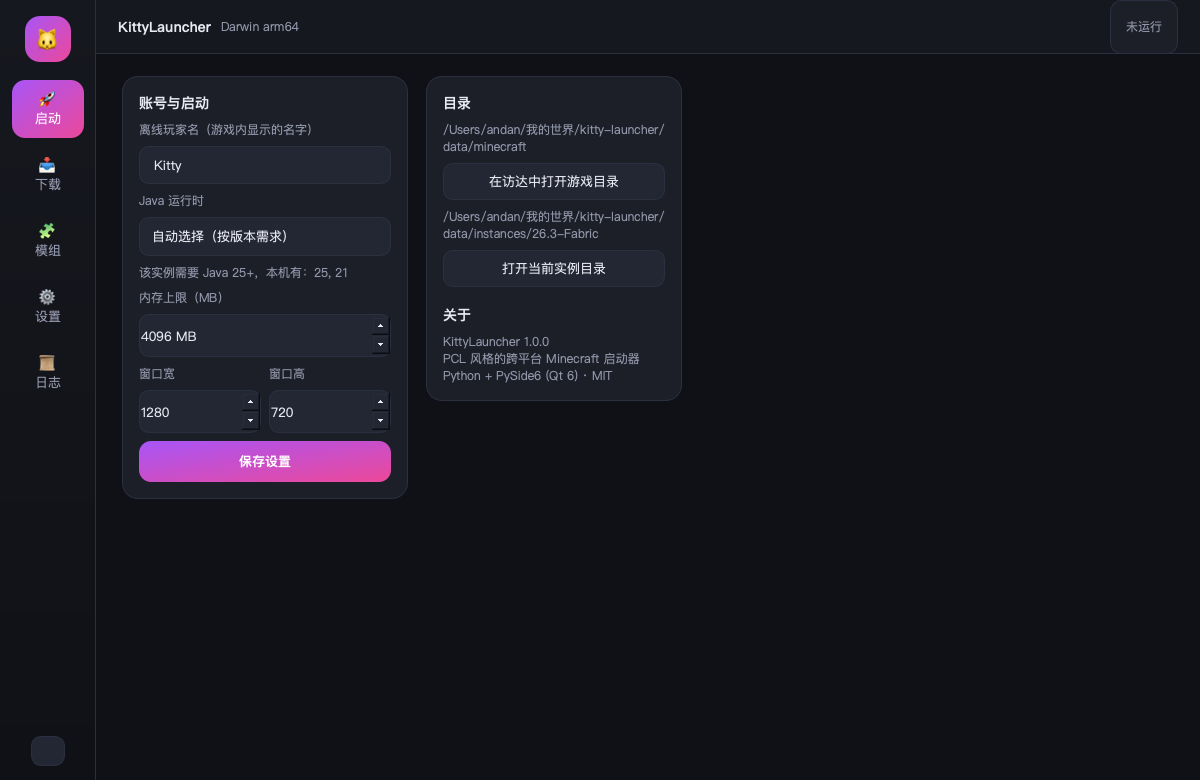
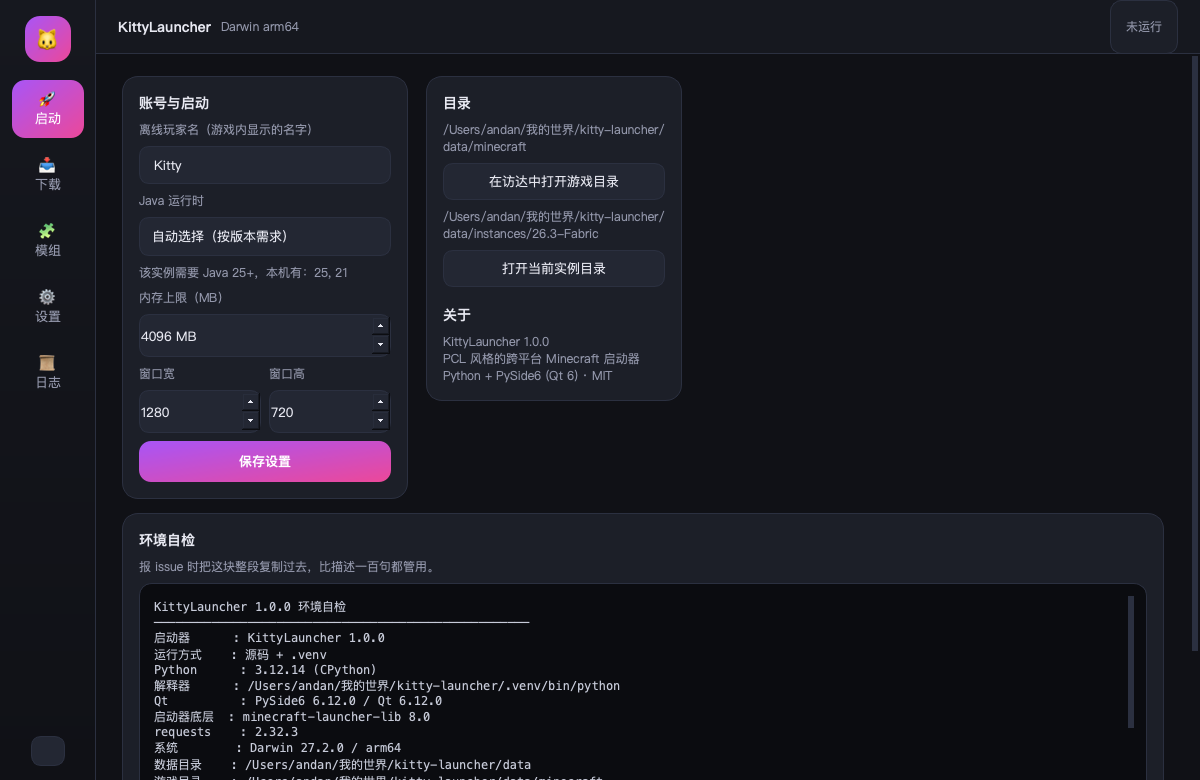
feat: 启动环境自检（--env / 设置页卡片 / 启动摘要）+ issue 模板

diff --git a/kitty/env_report.py b/kitty/env_report.py
@@ -1,0 +1,185 @@
+"""环境自检：一行看全 Python / Qt / Java / 目录 / 权限。
+
+三种用法：
+    python -m kitty.env_report          # 终端打印
+    ./run.sh --env                      # 同上（run.sh 会挑对解释器）
+    设置页「环境自检」卡片 → 复制     # 贴 issue 用
+
+这个模块刻意不 import PySide6，这样即使 Qt 装坏了也能跑出报告。
+"""
+from __future__ import annotations
+
+import os
+import platform
+import shutil
+import sys
+from pathlib import Path
+
+ROOT = Path(__file__).resolve().parent.parent
+VERSION = "1.0.0"
+MIN_PY = (3, 10)
+
+
+def _visual_len(text: str) -> int:
+    """中文按 2 个字符宽算，让终端里对齐得好看点。"""
+    return sum(2 if ord(ch) > 0x2E80 else 1 for ch in text)
+
+
+def _pad(text: str, width: int) -> str:
+    return text + " " * max(0, width - _visual_len(text))
+
+
+def _module_version(mod_name: str, attr: str = "__version__") -> str:
+    try:
+        import importlib.metadata as meta
+
+        return meta.version(mod_name)
+    except Exception:
+        pass
+    try:
+        mod = __import__(mod_name.replace("-", "_"))
+        return str(getattr(mod, attr, "?"))
+    except Exception:
+        return "未安装"
+
+
+def collect() -> dict:
+    info: dict = {
+        "launcher": VERSION,
+        "python": platform.python_version(),
+        "python_impl": platform.python_implementation(),
+        "python_path": sys.executable,
+        "frozen": bool(getattr(sys, "frozen", False)),
+        "venv": sys.prefix != sys.base_prefix,
+        "os": f"{platform.system()} {platform.release()}",
+        "arch": platform.machine(),
+        "qt": "未安装",
+        "mll": _module_version("minecraft-launcher-lib"),
+        "requests": _module_version("requests"),
+        "java": [],
+        "data_dir": "",
+        "game_dir": "",
+        "instances": [],
+        "disk_free_gb": 0.0,
+        "core_ok": False,
+    }
+
+    try:
+        from PySide6 import __version__ as pyside_ver
+        from PySide6.QtCore import qVersion
+
+        info["qt"] = f"PySide6 {pyside_ver} / Qt {qVersion()}"
+    except Exception as exc:  # noqa: BLE001
+        info["qt"] = f"未安装（{type(exc).__name__}）"
+
+    try:
+        from kitty import core
+
+        info["core_ok"] = True
+        info["data_dir"] = str(core.DATA)
+        info["game_dir"] = str(core.MC_DIR)
+        info["java"] = [
+            {"path": j["path"], "label": f"Java {j['major']} · {j['vendor']} · {j['version']}"}
+            for j in core.list_java()
+        ]
+        info["instances"] = [i["name"] for i in core.load_instances()]
+        try:
+            info["disk_free_gb"] = round(shutil.disk_usage(core.DATA).free / 1024 ** 3, 1)
+            info["data_writable"] = os.access(core.DATA, os.W_OK)
+        except Exception:
+            info["data_writable"] = False
+    except Exception as exc:  # noqa: BLE001
+        info["core_error"] = f"{type(exc).__name__}: {exc}"
+        info["data_writable"] = False
+
+    return info
+
+
+def checks(info: dict) -> list[tuple[str, str, str]]:
+    """返回 [(等级, 项目, 说明)]，等级 ✅ / ⚠ / ❌。"""
+    out: list[tuple[str, str, str]] = []
+
+    py = tuple(int(x) for x in info["python"].split(".")[:2])
+    if py >= MIN_PY:
+        out.append(("✅", "Python", f"{info['python']} ≥ 3.10"))
+    else:
+        out.append(("❌", "Python", f"{info['python']} 太老，需要 3.10+（跑 ./scripts/setup.sh）"))
+
+    if info["qt"].startswith("PySide6"):
+        out.append(("✅", "Qt", info["qt"]))
+    else:
+        out.append(("❌", "Qt", "PySide6 未装好，界面起不来"))
+
+    if info["mll"] == "未安装":
+        out.append(("❌", "启动器底层", "minecraft-launcher-lib 缺失"))
+    else:
+        out.append(("✅", "启动器底层", f"minecraft-launcher-lib {info['mll']}"))
+
+    # Java：只要有一个 >= 8 就能启动老版本，>= 21 才吃得下现代版本
+    majors = []
+    for j in info["java"]:
+        try:
+            majors.append(int(j["label"].split()[1]))
+        except Exception:
+            pass
+    if not majors:
+        out.append(("❌", "Java", "没找到任何 java，游戏起不来（去设置页手动指路径）"))
+    elif max(majors) >= 21:
+        out.append(("✅", "Java", f"找到 {len(majors)} 个，最高 {max(majors)}"))
+    else:
+        out.append(("⚠", "Java", f"找到 {len(majors)} 个，但最高只有 {max(majors)}，现代版本需要 21+"))
+
+    if info.get("core_ok"):
+        if info.get("data_writable"):
+            out.append(("✅", "数据目录", f"{info['data_dir']}（可写，剩余 {info['disk_free_gb']} GB）"))
+        else:
+            out.append(("❌", "数据目录", f"{info['data_dir']} 不可写，换个位置（KITTY_DATA）"))
+    else:
+        out.append(("❌", "启动器内核", info.get("core_error", "导入失败")))
+
+    return out
+
+
+def render(info: dict | None = None, color: bool = False) -> str:
+    info = info or collect()
+    rows = [
+        ("启动器", f"KittyLauncher {info['launcher']}"),
+        ("运行方式", "打包 app" if info["frozen"] else ("源码 + .venv" if info["venv"] else "源码")),
+        ("Python", f"{info['python']} ({info['python_impl']})"),
+        ("解释器", info["python_path"]),
+        ("Qt", info["qt"]),
+        ("启动器底层", f"minecraft-launcher-lib {info['mll']}"),
+        ("requests", info["requests"]),
+        ("系统", f"{info['os']} / {info['arch']}"),
+        ("数据目录", info["data_dir"] or "（未初始化）"),
+        ("游戏目录", info["game_dir"] or "（未初始化）"),
+        ("Java", "；".join(j["label"] for j in info["java"]) or "未找到"),
+        ("实例", f"{len(info['instances'])} 个" + (f"：{', '.join(info['instances'])}" if info["instances"] else "")),
+    ]
+    width = max(_visual_len(k) for k, _ in rows) + 2
+    lines = [f"KittyLauncher {info['launcher']} 环境自检", "─" * 52]
+    for k, v in rows:
+        lines.append(f"{_pad(k, width)}: {v}")
+    lines.append("─" * 52)
+    for level, item, note in checks(info):
+        lines.append(f"{level} {_pad(item, width)}: {note}")
+
+    bad = [c for c in checks(info) if c[0] == "❌"]
+    lines.append("─" * 52)
+    lines.append("结论: " + ("一切正常，可以开玩喵～" if not bad else f"有 {len(bad)} 项不满足，看上面 ❌"))
+    return "\n".join(lines)
+
+
+def summary_line(info: dict | None = None) -> str:
+    """给日志页用的一行摘要。"""
+    info = info or collect()
+    bad = [c for c in checks(info) if c[0] == "❌"]
+    java = max((int(j["label"].split()[1]) for j in info["java"]), default=0)
+    return (
+        f"[环境] Python {info['python']} · {info['qt']} · Java≤{java} · "
+        f"实例 {len(info['instances'])} · " + ("✅ 正常" if not bad else f"❌ {len(bad)} 项异常")
+    )
+
+
+if __name__ == "__main__":
+    print(render())

diff --git a/kitty/pages.py b/kitty/pages.py
@@ -12,7 +12,7 @@ from PySide6.QtWidgets import (
     QSizePolicy, QSpinBox, QStackedWidget, QVBoxLayout, QWidget, QButtonGroup,
 )
 
-from . import core
+from . import core, env_report
 from .widgets import Card, InstanceCard, StatCard, Tag, elide, loader_cn
 
 
@@ -466,9 +466,16 @@ class SettingsPage(QWidget):
     def __init__(self, host):
         super().__init__()
         self.host = host
-        lay = QHBoxLayout(self)
-        lay.setContentsMargins(26, 22, 26, 22)
+        inner = QWidget()
+        outer = QVBoxLayout(inner)
+        outer.setContentsMargins(26, 22, 26, 22)
+        outer.setSpacing(14)
+        root = QVBoxLayout(self)
+        root.setContentsMargins(0, 0, 0, 0)
+        root.addWidget(_scroll(inner))
+        lay = QHBoxLayout()
         lay.setSpacing(18)
+        outer.addLayout(lay)
 
         card = Card()
         card.setMaximumWidth(520)
@@ -551,9 +558,43 @@ class SettingsPage(QWidget):
         right.body.addWidget(about)
         right.body.addStretch(1)
 
+        env = Card()
+        t3 = QLabel("环境自检")
+        t3.setObjectName("Section")
+        env.body.addWidget(t3)
+        tip = QLabel("报 issue 时把这块整段复制过去，比描述一百句都管用。")
+        tip.setObjectName("Hint")
+        tip.setWordWrap(True)
+        env.body.addWidget(tip)
+
+        self.env_view = QPlainTextEdit()
+        self.env_view.setObjectName("Log")
+        self.env_view.setReadOnly(True)
+        self.env_view.setFixedHeight(250)
+        small = QFont("Menlo")
+        small.setPointSize(9)
+        self.env_view.setFont(small)
+        self.env_view.setPlainText(env_report.render())
+        env.body.addWidget(self.env_view)
+
+        env_btns = QHBoxLayout()
+        copy_btn = QPushButton("复制")
+        copy_btn.setObjectName("Ghost")
+        copy_btn.clicked.connect(self.copy_env)
+        again_btn = QPushButton("重新检测")
+        again_btn.setObjectName("Ghost")
+        again_btn.clicked.connect(self.refresh_env)
+        env_btns.addWidget(copy_btn)
+        env_btns.addWidget(again_btn)
+        env_btns.addStretch(1)
+        env.body.addLayout(env_btns)
+
         lay.addWidget(card, 0, Qt.AlignTop)
         lay.addWidget(right, 0, Qt.AlignTop)
         lay.addStretch(1)
+
+        outer.addWidget(env, 0)
+        outer.addStretch(1)
 
     @staticmethod
     def _label(text: str) -> QLabel:
@@ -589,6 +630,9 @@ class SettingsPage(QWidget):
         else:
             self.java_hint.setText("")
 
+        if hasattr(self, "env_view"):
+            self.env_view.setPlainText(env_report.render())
+
     def save(self) -> None:
         core.save_config({
             "username": self.user.text().strip() or "Steve",
@@ -604,6 +648,15 @@ class SettingsPage(QWidget):
         inst = self.host.selected_instance()
         if inst:
             core.open_path(inst["dir"])
+
+    def refresh_env(self) -> None:
+        self.env_view.setPlainText(env_report.render())
+
+    def copy_env(self) -> None:
+        from PySide6.QtWidgets import QApplication
+
+        QApplication.clipboard().setText(self.env_view.toPlainText())
+        self.host.toast("环境信息已复制到剪贴板", "ok")
 
 
 class LogsPage(QWidget):

diff --git a/kitty/main.py b/kitty/main.py
@@ -24,6 +24,7 @@ from PySide6.QtWidgets import (  # noqa: E402
 )
 
 from kitty import core  # noqa: E402
+from kitty import env_report  # noqa: E402
 from kitty import pages as pages_mod  # noqa: E402
 from kitty import theme  # noqa: E402
 from kitty.widgets import NavButton, Toast, elide  # noqa: E402
@@ -350,12 +351,16 @@ def screenshot(outdir: str) -> int:
 
 
 def main() -> int:
+    if "--env" in sys.argv:
+        print(env_report.render())
+        return 0
     if "--help" in sys.argv or "-h" in sys.argv:
         print(
             "KittyLauncher 1.0.0\n\n"
             "用法:\n"
             "  python -m kitty.main                 启动图形界面\n"
             "  python -m kitty.main --screenshot DIR  无头渲染五个页面截图\n"
+            "  python -m kitty.main --env            打印环境自检（贴 issue 用）\n"
             "  python -m kitty.main --help           显示这段帮助\n\n"
             "环境变量:\n"
             "  KITTY_DATA   自定义数据目录（默认 ./data，打包后在用户目录）\n"
@@ -373,6 +378,15 @@ def main() -> int:
     app.setWindowIcon(app_icon())
     win = App()
     win.show()
+
+    # 启动时打一份环境自检：终端里能看，日志页也留一行摘要
+    try:
+        info = env_report.collect()
+        print(env_report.render(info))
+        core.log(env_report.summary_line(info))
+    except Exception as exc:  # noqa: BLE001
+        core.log(f"[环境] 自检失败：{type(exc).__name__}: {exc}")
+
     return app.exec()
 
 

diff --git a/README.md b/README.md
@@ -24,6 +24,7 @@
 - **自动挑 Java**：扫本机所有 JDK，按目标版本要求选够用且最新的那个；版本不够会提示
 - **模组市场**：内置 Modrinth 搜索，按当前实例的 MC 版本 + 加载器过滤，一键下载到 `mods/`
 - **实时日志**：游戏 stdout 实时进日志页，同时落盘到 `data/logs/`
+- **环境自检**：启动时打印一行摘要，设置页有完整报告可一键复制，`./run.sh --env` 直接在终端出结果
 - **深浅双主题**：PCL 那套紫粉配色，一键切换
 
 ## 实测（不是 PPT，一条条跑过）
@@ -129,6 +130,25 @@ kitty-launcher/
 - [ ] 下载源切换（BMCLAPI 镜像加速）
 - [ ] 皮肤预览
 - [ ] Windows / Linux 上的成品包
+
+## 命令行参数
+
+```bash
+./run.sh                      # 启动图形界面
+./run.sh --env                # 环境自检（Python / Qt / Java / 目录 / 权限），贴 issue 用
+./run.sh --screenshot out/    # 无头渲染五个页面截图
+./run.sh --help               # 帮助
+```
+
+启动时终端也会打印完整自检报告，日志页留一行摘要（`[环境] Python 3.12.14 · PySide6 6.12.0 · Java≤25 · 实例 2 · ✅ 正常`）。
+
+## 出问题怎么报 issue
+
+1. 跑 `./run.sh --env`，复制整段输出（或打开启动器 → 设置 → 环境自检 → 复制）
+2. 启动器「日志」页最后 50 行，或 `data/logs/` 里最新的日志文件
+3. 按 [Bug 模板](.github/ISSUE_TEMPLATE/bug_report.yml) 提 issue
+
+自检会告诉你卡在哪一层：Python 版本 / Qt / 启动器底层 / Java / 数据目录权限，基本一眼定位。
 
 ## 常见报错
 
